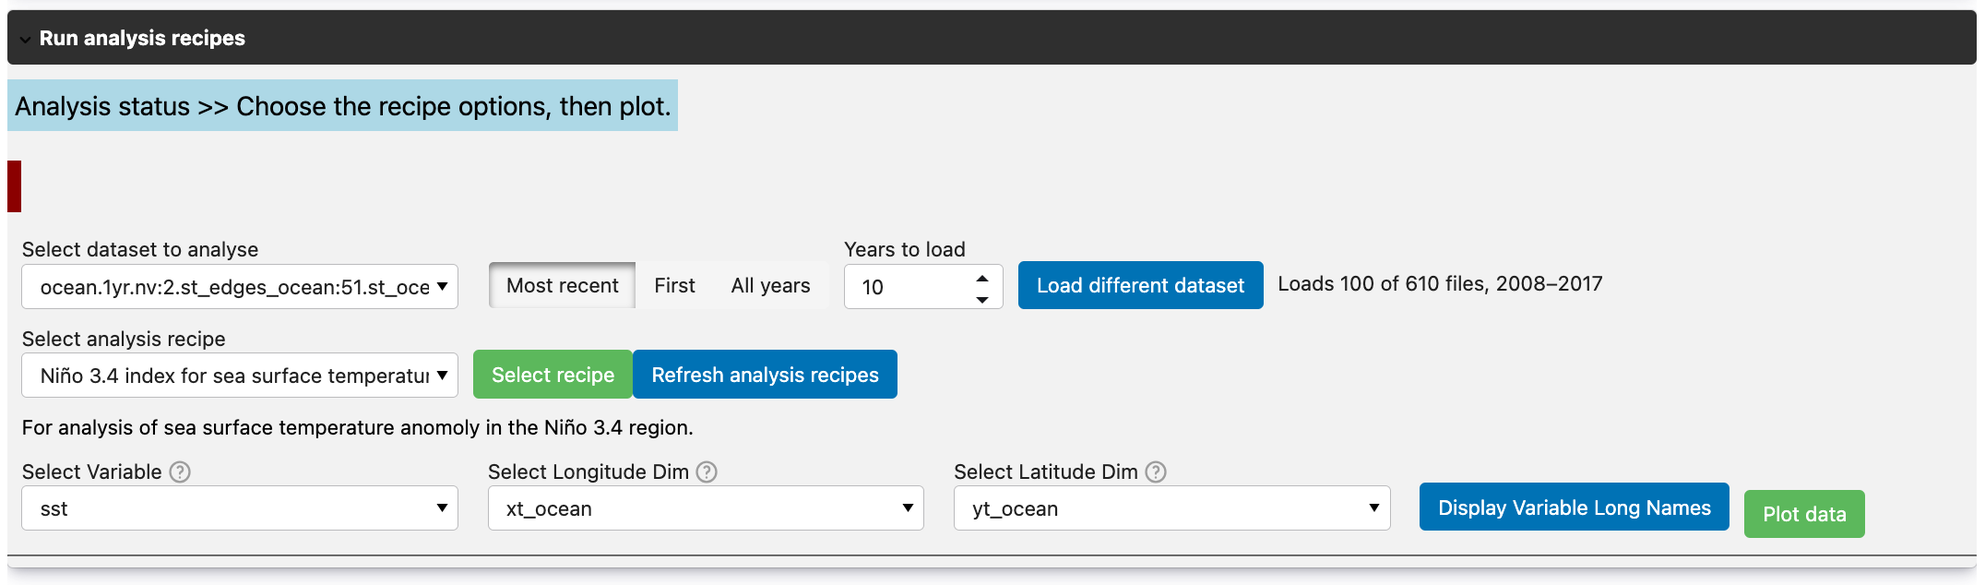
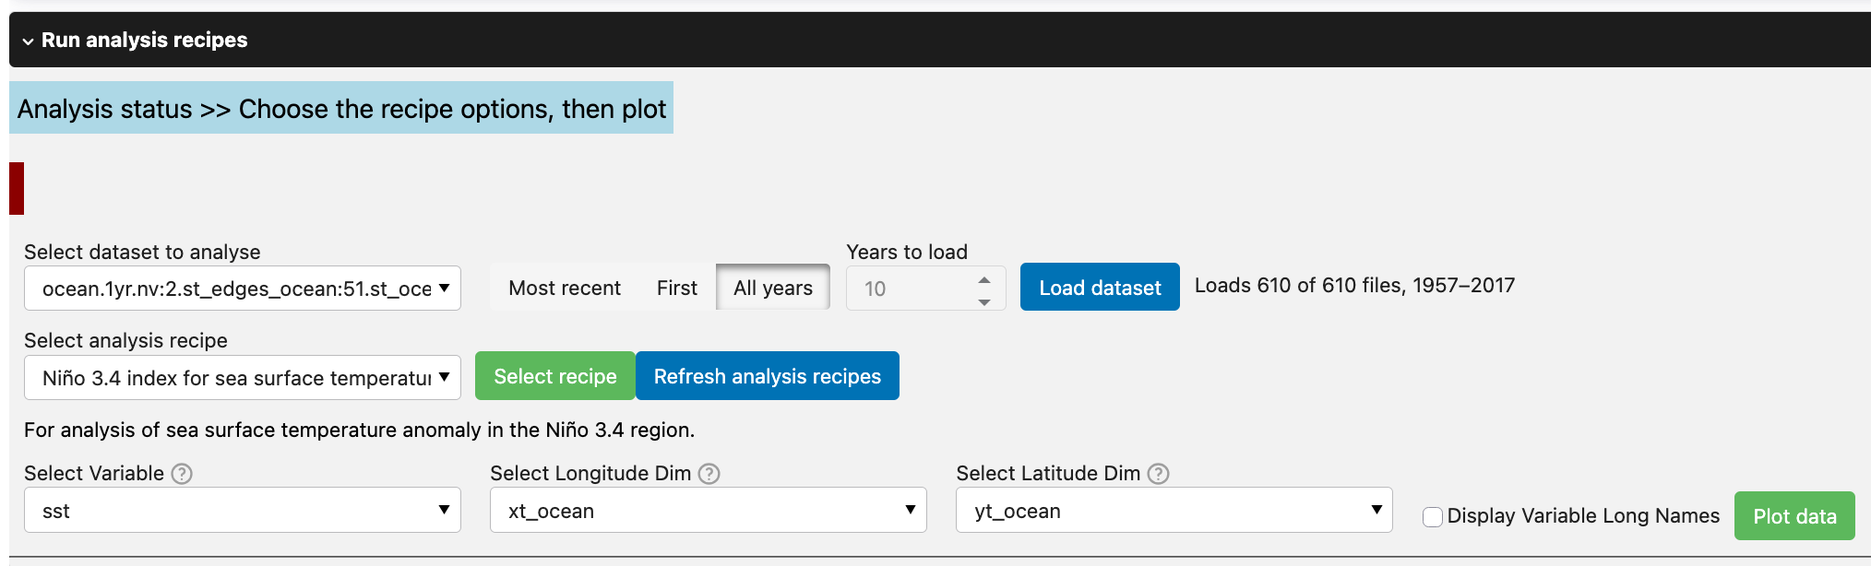
Updates to documentation after changes to code

Changed region(s): [[0.0, 0.4023, 1.0, 0.9902], [0.0, 0.0, 1.0, 0.2476], [0.0, 0.2785, 0.0311, 0.3713]]

diff --git a/documentation/docs/notebooks/getting_started_tutorial.md b/documentation/docs/notebooks/getting_started_tutorial.md
@@ -30,7 +30,7 @@ import med_diagnostics
 ```
 
 ### 2. Create live model session
-Create a session. It takes no arguments.
+Create a session by running a cell with the following command:
 
 ```python
 session = med_diagnostics.session.CreateModelDiagnosticsSession()
@@ -38,7 +38,7 @@ session = med_diagnostics.session.CreateModelDiagnosticsSession()
 
 This shows the **Start a model diagnostics session** section:
 
-![Start a model diagnostics session](/assets/notebooks/2026tutorial_session_start.png)
+![Start a model diagnostics session](/assets/notebooks/tutorial_2_session_start.png)
 
 - **Path to model output directory/files on Gadi**: enter the path to your live model output, or leave it blank to only view reference models.
 - **Select model type**: choose the type of ACCESS model. Supported values are `CM2`, `CM3`, `ESM15`, `ESM16`, `MOM6`, `OM2` and `OM3`. This also sets which reference models are offered.
@@ -55,13 +55,13 @@ With no path entered, the start section collapses and only the **Load and plot r
 
 #### 3.1. Loading reference model data
 
-i) The reference model dropdown lists every model of the selected type in the catalogue (here, every `OM2` model). Click "Reference model information" to see a description of the selected model. Choose a reference model and click "Load reference model".
+i) The reference model dropdown lists the catalogue's runs of models related to the selected type (here, every `OM2` run). Some types also offer runs of other models: `OM3` lists ACCESS-OM2 and MOM6 runs, and `CM3` lists ACCESS-CM2 and MOM6 runs. Click "Reference model information" to see a description of the selected model. Choose a reference model and click "Load reference model".
 
-![Reference model dropdown](/assets/notebooks/2026tutorial_image_8.png)
+![Reference model dropdown](/assets/notebooks/tutorial_3-1_ref_model_dropdown.png)
 
 ii) Once the reference model loads, a second dropdown lists its datasets. Select the dataset you want to view and click "Load reference dataset".
 
-![Reference dataset dropdown](/assets/notebooks/2026tutorial_image_9.png)
+![Reference dataset dropdown](/assets/notebooks/tutorial_3-1_ref_dataset_dropdown.png)
 
 #### 3.2. Plotting data
 
@@ -71,22 +71,22 @@ i) Once the dataset loads, the plotting controls appear. From here, you can:
 
 - **Select a variable**: choose a model variable from the dropdown.
 - **Choose a plot type**: Line, Heatmap or Animation. Datasets with fewer dimensions may only support line plots.
-- **Toggle variable names**: use the "Display Variable Long Names" switch to show long or short names, if the defaults are unclear.
+- **Toggle variable names**: use the "Display Variable Long Names" checkbox to show long or short names, if the defaults are unclear.
 
 Then click the <span style="color:green">"Select variable and plot type"</span> button.
 
-ii) The axis options depend on the plot type. For a line plot, select the x-axis dimension (e.g. time); for an animated heatmap, assign dimensions to the X, Y and Z axes. Then click the <span style="color:green">"Plot data"</span> button.
+ii) The axis options depend on the plot type. For a line plot, select the x-axis dimension (e.g. time); for an animated heatmap, assign dimensions to the X, Y and Z axes. Then click the <span style="color:green">"Select dimensions"</span> button.
 
-iii) If the variable has dimensions that aren't on an axis (e.g. ocean depth in OM2), sliders appear so you can choose a slice of each. Depending on the dataset and plot type, there may be none. Choose your slices and click the <span style="color:green">"Confirm Slices & Plot"</span> button to load the plot.
+iii) If the variable has dimensions that aren't on an axis (e.g. ocean depth, or time), a slider appears for each so you can choose a slice. You can also type a value into the box beside each slider. Depending on the dataset and plot type, there may be none. Choose your slices and click the <span style="color:green">"Plot data"</span> button to load the plot.
 
-![Reference data UI](/assets/notebooks/2026tutorial_image_10.png)
+![Reference data UI](/assets/notebooks/tutorial_3-2_ref_plot_controls.png)
 
-![Reference data plot](/assets/notebooks/2026tutorial_image_11.png)
+![Reference data plot](/assets/notebooks/tutorial_3-2_ref_plot.png)
 
 iv) Each plot has a <span style="color:darkred">"Remove Plot"</span> button beneath it, which removes that plot from the section.
 
 !!! tip "Optional"
-    Repeat this with as many datasets, variables and plot types as you like. After a plot is made, the buttons change to "Add Plot" (same variable and plot type, e.g. with different axes or slices) and "Add new plot with different variable/ plot type". To switch to a different reference model, click "Clear reference model" and load a new one.
+    Repeat this with as many datasets, variables and plot types as you like. Each new plot appears directly below the controls, above older plots. To add another plot of the same variable and plot type (e.g. with different slices), change the sliders and click "Plot data" again; to change the variable or plot type, choose it and click "Select variable and plot type" again. To switch to a different reference model, click "Clear reference model" and load a new one.
 
 When you are ready to move on to your own run, expand the **Start a model diagnostics session** section and click the <span style="color:darkred">"End Session"</span> button.
 
@@ -94,7 +94,7 @@ When you are ready to move on to your own run, expand the **Start a model diagno
 
 In the start section, enter the path to your live model output, select its model type, and click "Start Session".
 
-![User session start](/assets/notebooks/2026Tutorial_session_start_user.png)
+![User session start](/assets/notebooks/tutorial_4-0_session_start_user.png)
 
 The start section collapses and four collapsible sections appear:
 
@@ -110,15 +110,15 @@ The start section collapses and four collapsible sections appear:
 
 i) The **Load and plot user data** section shows the <span style="color:orange">catalog</span>, <span style="color:lightblue">status</span> and <span style="color:darkred">warning</span> information boxes. While MLD builds an intake catalogue of your live model output, the session summary and the following <span style="color:lightblue">status</span> message are shown. Depending on the size of the output, this can take several minutes.
 
-![Session summary](/assets/notebooks/2026tutorial_image_1.png)
+![Session summary](/assets/notebooks/tutorial_4-1_session_summary.png)
 
 ii) Once the catalogue is built, the <span style="color:lightblue">status</span> message updates and the <span style="color:orange">catalog</span> box shows the date and time of the last catalogue build.
 
-![Status message update](/assets/notebooks/2026tutorial_image_2.png)
+![Status message update](/assets/notebooks/tutorial_4-1_catalog_built.png)
 
 iii) The dropdown lists every dataset in your model output. Select the dataset you want to monitor, choose how many years to load (see the tip below), and click "Load dataset".
 
-![Available datasets dropdown](/assets/notebooks/2026tutorial_image_3.png)
+![Available datasets dropdown](/assets/notebooks/tutorial_4-1_dataset_dropdown.png)
 
 !!! tip "Choosing how many years to load"
     Next to each dataset dropdown are the **Years to load** controls. Loading fewer years is the main way to keep load times and memory use down.
@@ -131,27 +131,23 @@ iii) The dropdown lists every dataset in your model output. Select the dataset y
 
 iv) Once the dataset loads, the plotting controls appear. Choosing a variable, plot type, axes and slices works exactly as in section 3.2.
 
-![Plotting interface](/assets/notebooks/2026tutorial_image_4.png)
+![Plotting interface](/assets/notebooks/tutorial_4-1_plot_controls.png)
 
-![Axis assignment](/assets/notebooks/2026tutorial_image_5.png)
-
-![Slice configuration](/assets/notebooks/2026tutorial_image_6.png)
-
-![Generated plot](/assets/notebooks/2026tutorial_image_7.png)
+![Generated plot](/assets/notebooks/tutorial_4-1_plot.png)
 
 !!! tip "Optional"
-    To monitor a different dataset, select it and click "Load different dataset".
+    To monitor a different dataset, select it and click "Load dataset" again.
 
 #### 4.2. Comparing user and reference models (optional)
 The **Overlay user and reference models** section compares your run with reference models, either as overlaid line plots or side-by-side heatmaps. It can also plot the difference between the user and reference datasets, to highlight where they differ.
 
-i) Select the user dataset to compare in "Select user dataset", set the years to load, and click "Load User Dataset". If you already loaded a dataset in section 4.1, it is selected here automatically and the button reads "Load different dataset".
+i) Select the user dataset to compare in "Select user dataset", set the years to load, and click "Load dataset". If you already loaded a dataset in section 4.1, it is selected and loaded here automatically.
 
 ii) Choose the variable to compare from the "Variable selection" dropdown.
 
-iii) Select a reference model from the dropdown and click "Add reference model". If the reference model has a dataset matching your user dataset, it loads automatically; if not, the model is skipped. Repeat this to add as many reference models as you like, or click "Clear loaded data" to remove them all and start again. Then select a plot type (Line or Heatmap (grid)) and click "Select variable and plot type".
+iii) Select a reference model from the dropdown and click "Add reference model". If the reference model has a dataset matching your user dataset, it loads automatically; if not, the model is skipped. Repeat this to add as many reference models as you like, or click "Clear loaded data" to remove them all and start again. Then select a plot type (Line or Heatmap) and click "Select variable and plot type".
 
-![Add reference model](/assets/notebooks/2026tutorial_image_12.png)
+![Add reference model](/assets/notebooks/tutorial_4-2_add_ref_model.png)
 
 iv) Select the axes and choose an analysis type from the dropdown:
 
@@ -159,22 +155,20 @@ iv) Select the axes and choose an analysis type from the dropdown:
 - **Plot Difference (Ref. - User data)**: plots the difference between each reference dataset and the user dataset.
 - **Plot All Data & Difference**: plots both the datasets and their differences.
 
-Then click the <span style="color:green">"Plot data"</span> button.
+Then click the <span style="color:green">"Select dimensions"</span> button.
 
-![Analysis type dropdown](/assets/notebooks/2026tutorial_image_13.png)
+![Analysis type dropdown](/assets/notebooks/tutorial_4-2_analysis_type.png)
 
-v) For line plots, if the reference models cover a wider x-axis range than the user dataset (e.g. a longer time period), you are asked to "Choose how to constrain the x-axis bounds":
+v) If the variable needs slicing, sliders appear as in section 3.2. For line plots, if the reference models cover a wider x-axis range than the user dataset (e.g. a longer time period), a "Choose how to constrain the x-axis bounds" dropdown also appears beside them:
 
 - **Constrain to user dataset bounds**: zoom the x-axis to the range of the user dataset.
 - **Constrain to min-max reference dataset bounds**: show the full range covered by all loaded datasets.
 
-Select an option and click "Plot data".
+Choose your slices (and bounds, if asked) and click the <span style="color:green">"Plot data"</span> button to load the plots.
 
-vi) If the variable needs slicing, sliders appear as in section 3.2. Choose your slices and click the <span style="color:green">"Confirm Slices & Plot"</span> button to load the plots.
+![Comparison heatmap](/assets/notebooks/tutorial_4-2_comparison_heatmap.png)
 
-![Comparison heatmap](/assets/notebooks/2026tutorial_image_14.png)
-
-![Comparison difference heatmap](/assets/notebooks/2026tutorial_image_15.png)
+![Comparison difference heatmap](/assets/notebooks/tutorial_4-2_difference_heatmap.png)
 
 #### 4.3. Running analysis recipes (optional)
 The **Run analysis recipes** section runs predefined analyses ("recipes") on your user dataset, such as the Niño 3.4 sea surface temperature anomaly (`recipe_sst_anomaly_nino34`), a regional mean on the MOM5 grid (`recipe_regional_mean_mom5`), or the OM3 timeseries suites (`recipe_om3_timeseries` and `recipe_om3_timeseries_mapped`). See [Built-in analysis recipes](built_in_recipes_tutorial.md) for what each one does and the options it takes. You can also write your own recipes; see [Adding custom analyses](adding_custom_analyses.md).
@@ -183,11 +177,11 @@ i) Select the dataset in "Select dataset to analyse", set the years to load, and
 
 ii) Choose a recipe from "Select analysis recipe" and click "Select recipe". A description of the recipe appears, along with inputs for its options (e.g. the variable or region to use).
 
-![Analysis section](/assets/notebooks/2026tutorial_image_16.png)
+![Analysis section](/assets/notebooks/tutorial_4-3_analysis_section.png)
 
-iii) Fill in the options and click "Plot data". As with the other sections, each plot has a "Remove Plot" button, and the button changes to "Add Plot" so you can run the recipe again with different options. If a recipe fails, the error is shown in the <span style="color:darkred">warning</span> box.
-
-![Analysis plot](/assets/notebooks/2026tutorial_image_17.png)
+iii) Fill in the options and click "Plot data". As with the other sections, each plot has a "Remove Plot" button. To run the recipe again with different options, change them and click "Plot data" again; the new plot appears above the older ones. If a recipe fails, the error is shown in the <span style="color:darkred">warning</span> box.
+ch removes that plot from the section.
+![Analysis plot](/assets/notebooks/tutorial_4-3_analysis_plot.png)
 
 !!! tip "Running a suite of analyses"
     Some recipes are **suites**: one click of "Plot data" runs several analyses and adds one plot for each, in order. The status box then reads "Plots created". Each plot gets its own "Remove Plot" button, so you can remove the ones you don't need. Any recipe can be a suite, including your own (see [Running a suite of analyses](adding_custom_analyses.md#running-a-suite-of-analyses)).
@@ -201,3 +195,7 @@ session.end_session()
 ```
 
 This closes the Dask client and removes the session's sections, freeing up compute resources on Gadi. To start another session, enter a new path and model type and click "Start Session".
+
+---
+
+[Next: Advanced usage :material-arrow-right:](advanced_usage.md){ .md-button }

diff --git a/documentation/docs/notebooks/adding_custom_analyses.md b/documentation/docs/notebooks/adding_custom_analyses.md
@@ -2,7 +2,7 @@
 
 Learn how to create and integrate custom analyses into the Model Live Diagnostics (MLD) package. By the end of this tutorial, you will know how to implement a custom analysis that automatically generates interactive UI controls based on user selection. Any analysis that can be computed with `xarray` and plotted via `matplotlib.pyplot` can be integrated into the analysis section.
 
-### Prerequisites
+## Prerequisites
 Before starting, ensure you have:
 
 * Started an MLD session in your current notebook or kernel (your custom recipes must be written in this same environment)
@@ -16,13 +16,13 @@ from med_diagnostics import analysis
 import xarray as xr
 ```
 
-For setup guidance, refer to the [Getting Started Tutorial](../getting_started_tutorial/).
+For setup guidance, refer to the [Getting Started Tutorial](getting_started_tutorial.md).
 
 ---
 ## How the analysis section works
 ### Analysis Interface
 
-The **Analysis** section provides a dropdown menu of predefined analyses (and user-defined analyses once they are added!). Selecting an analysis dynamically populates the interface with the required input widgets. 
+The **Run analysis recipes** section provides a dropdown menu of predefined analyses (and user-defined analyses once they are added!). Selecting an analysis dynamically populates the interface with the required input widgets. 
 
 <img src="/assets/notebooks/Analysis_section.png" alt="Model Live Diagnostics Analysis Section Interface" style="width: 100%; height: auto;">
 
@@ -158,7 +158,7 @@ analysis.register_analysis(recipe_global_mean_dynamic)
     - The **first paragraph** becomes the dropdown label, shown as `Custom: <first paragraph>`. Without a docstring, the function name is used instead.
     - The **second paragraph** (after a blank line) is shown under the dropdown when the analysis is selected.
 
-When you choose your new analysis using the **Recipe** dropdown, the UI will automatically generate widgets based on the `Annotated` definitions you provided for each argument. If your specified `<default>` values exist within the loaded dataset, the widgets will auto-populate with them. You can freely change these selections using the generated dropdown menus. 
+When you choose your new analysis in the **Select analysis recipe** dropdown and click **Select recipe**, the UI will automatically generate widgets based on the `Annotated` definitions you provided for each argument. If your specified `<default>` values exist within the loaded dataset, the widgets will auto-populate with them. You can freely change these selections using the generated dropdown menus. 
 
 Now, rather than being restricted to just a timeseries, this single function allows us to plot the average of *any* variable along *any* dimension. For example:
 
@@ -254,7 +254,7 @@ def recipe_custom_plot(
     # Define custom plot settings
     plot_kwargs = {
         "figsize": (10, 6),
-        "title": f"Time-Averaged Heatmap: {variable}",
+        "title": f"Time & Depth Averaged Heatmap: {variable}",
         "ax_kwargs": {"xlabel": "Longitude", "ylabel": "Latitude"},
         "cmap": "magma",
         "cbar_kwargs": {"label": "Temperature (K)"},
@@ -365,7 +365,7 @@ The resultant plot from adding this customisation:
 
 #### Ready-made customisations
 
-MLD provides several built-in customisation functions for common meteorological and oceanographic visualisations in the `med_diagnostics.plot_customisations` module. These will be updated as the package is developed, and full details can be found in the [API Reference](../../api/#med_diagnostics.plot_customisations).
+MLD provides several built-in customisation functions for common meteorological and oceanographic visualisations in the `med_diagnostics.plot_customisations` module. These will be updated as the package is developed, and full details can be found in the [API Reference](../pages/api.md#med_diagnostics.plot_customisations).
 
 #### Passing extra arguments to a customise function
 
@@ -375,6 +375,8 @@ If your custom function requires external settings (like a specific threshold va
 
 ```python
 from typing import Annotated
+
+from med_diagnostics import plot_customisations
 
 
 def recipe_timeseries_threshold(
@@ -486,4 +488,8 @@ Use the checklist below to help register a new recipe to MLD:
 
 Because custom recipes integrate seamlessly into the MLD pipeline, they are perfectly structured to be included as inbuilt recipes. If you have created an analysis that would be useful to others, you can submit it to the core repository, making it available for others to use.
 
-For full details on how to format, test, and submit your code via a pull request, please see the [Contributing Recipes](../../contributing/recipes/) guide.
+For full details on how to format, test, and submit your code via a pull request, please see the [Contributing Recipes](../pages/contributing/recipes.md) guide.
+
+---
+
+[Next: Built-in analysis recipes :material-arrow-right:](built_in_recipes_tutorial.md){ .md-button }

diff --git a/documentation/docs/pages/contributing/models.md b/documentation/docs/pages/contributing/models.md
@@ -46,26 +46,32 @@ Then add the model type to the `options` of `model_type_dropdown` in `UserInterf
 
 ## 2. Check the reference models
 
-`_load_access_nri_catalog()` in `data.py` filters the ACCESS-NRI Intake Catalog with:
+`_load_access_nri_catalog()` in `data.py` filters the ACCESS-NRI Intake Catalog to the exact model names listed for the model type in `CATALOG_MODEL_NAMES`, at the top of `data.py`:
 
 ```python
-catalog.search(model=f".*{model_type.upper()}.*")
+CATALOG_MODEL_NAMES = {
+    ...
+    "esm15": ["ACCESS-ESM1-5"],
+    "newmodel": ["ACCESS-NEWMODEL"],
+}
 ```
 
-Check that this regex matches the new model's entries in the catalog's `model` column, and doesn't pull in other models:
+Add an entry for the new model type, listing the names its reference runs have in the catalog's `model` column. To see the names in the catalog:
 
 ```python
 import intake
 
-cat = intake.cat.access_nri
-cat.search(model=".*NEWMODEL.*").df["model"].unique()
+intake.cat.access_nri.df["model"].unique()
 ```
 
-If it doesn't match (for example because the catalog spells the model differently from the model type), change the filter for that model type rather than renaming the model type. If the catalog has no experiments of the model yet, the reference model sections will be empty, but the user data and analysis sections still work.
+The names are matched exactly, so similar names (e.g. `GFDL-CM3` for `CM3`) are not picked up. A model type can list related models too: `om3` lists the ACCESS-OM2 and MOM6 runs, as there are no ACCESS-OM3 runs in the catalog yet. If there are no suitable runs, use an empty list; the reference model sections will be empty, but the user data and analysis sections still work.
 
 ## 3. Test it
 
-1. Add the new model type to the `parametrize` list of `test_build_new_catalog_valid_models` in `tests/test_data.py`, with its builder and expected `builder_kwargs`.
+1. In `tests/test_data.py`, add the new model type to:
+    - the `parametrize` list of `test_build_new_catalog_valid_models`, with its builder and expected `builder_kwargs`,
+    - the `parametrize` list of `test_load_access_nri_catalog_finds_only_its_models`, with the catalog models it should find (adding its names to `CATALOG_MODELS` if they aren't there),
+    - the list in `test_every_model_type_has_catalog_names`.
 2. Run the tests (see [Contributing code](code.md)).
 3. Start a session on real output of the model in ARE and check that the catalogue builds, datasets load and plot (including the **Years to load** options), reference models are listed, and the built-in recipes you'd expect to work on it do.
 

diff --git a/documentation/docs/notebooks/advanced_usage.md b/documentation/docs/notebooks/advanced_usage.md
@@ -65,10 +65,14 @@ Common triggers for these warnings include:
 
 -   **Invalid Plot Configurations:** Attempting to assign the same dimension to multiple axes, or selecting a complex plot type (like a Heatmap or Animation) for a dataset that lacks the required dimensions. In these cases, the UI will prompt you to fix the axes or automatically downgrade your selection to a Line plot.
 
--   **Missing Overlay Data:** When using the multiplot feature, you may load reference models that do not contain the matching dataset or the specific variable you are attempting to plot. The interface will warn you and automatically drop these incompatible models from the overlay.
+-   **Missing Overlay Data:** When using the **Overlay user and reference models** section, you may load reference models that do not contain the matching dataset or the specific variable you are attempting to plot. The interface will warn you and automatically drop these incompatible models from the overlay.
 
--   **Automated Plotting:** If a dataset only has one viable dimension for a Line plot, the UI will briefly warn you that it is bypassing the axis selection step to generate the plot automatically.
+-   **Automated Axis Selection:** If a variable only has one viable x-axis dimension for a Line plot, the UI selects it for you and says so in the warning bar. In the overlay section, it skips straight to the slice and "Plot data" step.
 
 -   **Analysis Recipe Failures** If a predefined recipe has an invalid configuration passed to it, or if there is an error in a user defined recipe, details will appear in the warning textbox in the analysis section.
  
 If a plot fails to generate, review the <span style="color:darkred">warning</span> bar and adjust your dropdown selections accordingly. The warning message will clear automatically once a valid plot is successfully generated.
+
+---
+
+[Next: Adding custom analyses :material-arrow-right:](adding_custom_analyses.md){ .md-button }

diff --git a/documentation/docs/notebooks/built_in_recipes_tutorial.md b/documentation/docs/notebooks/built_in_recipes_tutorial.md
@@ -9,7 +9,7 @@ MLD comes with a set of built-in analysis recipes. They appear in the "Select an
 | OM3 timeseries suite (OM3 variable names) | `recipe_om3_timeseries` | 1 per field found | ACCESS-OM3 output |
 | OM3 timeseries suite (custom variable mapping) | `recipe_om3_timeseries_mapped` | 1 per field chosen | ACCESS ocean output on any grid |
 
-All of these functions live in `med_diagnostics.recipes`, along with helpers you can reuse in your own recipes (see the [API reference](../../api/#med_diagnostics.recipes)).
+All of these functions live in `med_diagnostics.recipes`, along with helpers you can reuse in your own recipes (see the [API reference](../pages/api.md#med_diagnostics.recipes)).
 
 !!! tip "Defaults and the loaded dataset"
     Each recipe's option dropdowns are filled in with its defaults (e.g. `tos`, `xt_ocean`) when these exist in the loaded dataset. If they don't, choose the matching variable or coordinate yourself before clicking "Plot data".
@@ -145,3 +145,7 @@ Notes:
 
 !!! tip "Writing your own recipes"
     You can add your own analyses to this section. See the [Adding custom analyses](adding_custom_analyses.md) tutorial. After registering a new recipe, click "Refresh analysis recipes" to add it to the dropdown.
+
+---
+
+[Next: API reference :material-arrow-right:](../pages/api.md){ .md-button }

diff --git a/documentation/docs/pages/contributing/docs.md b/documentation/docs/pages/contributing/docs.md
@@ -10,17 +10,22 @@ The documentation is written in Markdown and built with [MkDocs Material](https:
 
 ## Preview the documentation locally
 
-Install the documentation dependencies and start the local development server:
+The documentation dependencies are installed with [pixi](https://pixi.sh). From the root of the repository, start a pixi shell and the local development server:
 
 ```bash
+pixi shell
 cd documentation
-pip install -r requirements.txt
 mkdocs serve
 ```
 
-Build the static site with:
+To build the static site, the `resolve-absolute-urls` plugin also needs a site URL, so set `READTHEDOCS_CANONICAL_URL` (any URL works locally):
 
 ```bash
+pixi shell
 cd documentation
-mkdocs build --strict
+READTHEDOCS_CANONICAL_URL=http://localhost/en/latest/ mkdocs build --strict
 ```
+
+---
+
+[Next: Feature requests and bug reports :material-arrow-right:](issues.md){ .md-button }

diff --git a/documentation/docs/pages/tutorials/index.md b/documentation/docs/pages/tutorials/index.md
@@ -6,3 +6,7 @@ These tutorials show how to use Model Live Diagnostics in an ARE JupyterLab sess
 - [Advanced usage](../../notebooks/advanced_usage.md): what happens when a session starts, working with the catalogue and loaded dataset in Python, session management and troubleshooting.
 - [Adding custom analyses](../../notebooks/adding_custom_analyses.md): write your own analysis recipes, with their own options, plot customisations and suites of plots, and add them to the interface.
 - [Built-in analysis recipes](../../notebooks/built_in_recipes_tutorial.md): what each built-in recipe computes, the data it expects and its options.
+
+---
+
+[Next: Getting started :material-arrow-right:](../../notebooks/getting_started_tutorial.md){ .md-button }

diff --git a/documentation/docs/pages/contributing/recipes.md b/documentation/docs/pages/contributing/recipes.md
@@ -78,3 +78,7 @@ Once your recipe and any tests pass:
 2. Open a pull request against the `main` branch of the [MED-live-diagnostics repository](https://github.com/ACCESS-NRI/MED-live-diagnostics/pulls). In the description, link the issue and include which models or grids you tested the recipe on, plus a screenshot of its plot.
 
 If `main` has moved on while you are working, update your branch with `git fetch upstream` followed by `git rebase upstream/main`.
+
+---
+
+[Next: Adding support for a new model type :material-arrow-right:](models.md){ .md-button }

diff --git a/documentation/docs/pages/contributing/code.md b/documentation/docs/pages/contributing/code.md
@@ -27,3 +27,7 @@ Contributions to the code are welcome. If you would like to contribute, start by
 4. Commit your edits, including docstrings, documentation updates, and unit tests. Please follow [numpydoc style](https://numpydoc.readthedocs.io/en/latest/format.html) for docstrings where possible.
 
 5. Open a pull request against the `main` branch of the [MED-live-diagnostics repository](https://github.com/ACCESS-NRI/MED-live-diagnostics/pulls).
+
+---
+
+[Next: Contributing documentation :material-arrow-right:](docs.md){ .md-button }

diff --git a/documentation/docs/pages/contributing/issues.md b/documentation/docs/pages/contributing/issues.md
@@ -9,3 +9,7 @@ When reporting a bug, include:
 - Details about your local setup, especially the Python interpreter version.
 - Detailed steps to reproduce the issue, ideally with a [Minimal, Complete and Verifiable Example](https://matthewrocklin.com/minimal-bug-reports).
 - A demonstration test that currently fails but should pass when the issue is fixed, when possible.
+
+---
+
+[Next: Contributing recipes :material-arrow-right:](recipes.md){ .md-button }

diff --git a/documentation/docs/pages/contributing/index.md b/documentation/docs/pages/contributing/index.md
@@ -9,3 +9,7 @@ See the relevant guide:
 - [Feature requests and bug reports](issues.md)
 - [Contributing recipes](recipes.md)
 - [Adding support for a new model type](models.md)
+
+---
+
+[Next: Contributing code :material-arrow-right:](code.md){ .md-button }

diff --git a/documentation/docs/pages/api.md b/documentation/docs/pages/api.md
@@ -15,3 +15,7 @@ The API reference is generated from the public Python modules and their docstrin
 
 ::: med_diagnostics.plot_customisations
 -->
+
+---
+
+[Next: Contributing :material-arrow-right:](contributing/index.md){ .md-button }
